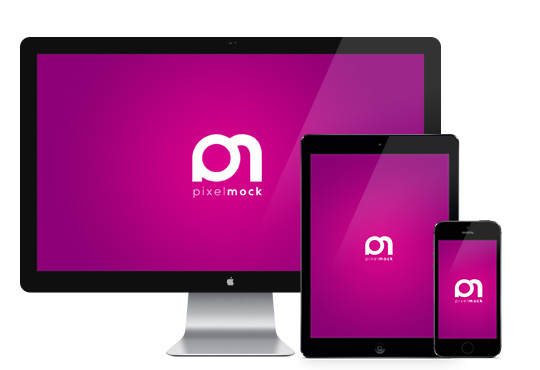
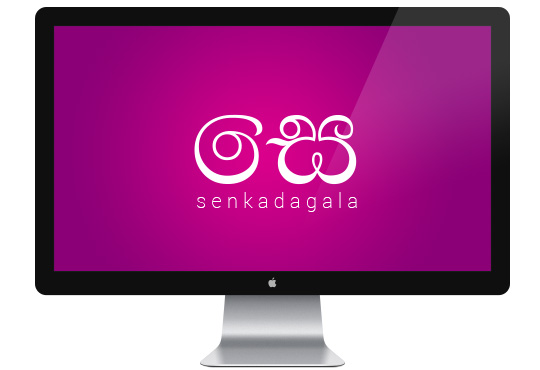
Images modified and text changes to the template

diff --git a/index.html b/index.html
@@ -53,11 +53,11 @@
 					<div class="col-xs-6 col-sm-4 col-md-2 col-lg-2 col-xs-offset-3 col-sm-offset-4 col-md-offset-5 main-logo"></div>
 				</div>
 				<div class="row">
-					<h2>We're <span class="text-color11">Pixel</span><span class="text-color21">Mock</span></h2>
+					<h2>Senkadagala</h2>
 				</div>
 				<div class="row">
 					<p>
-						Senkadagala - A simple one page HTML layout.
+						A simple one page HTML layout.
 					</p>
 				</div>
 			</div>
@@ -70,9 +70,9 @@
 						<img class="img-responsive" title="PixelMock Introduction" src="img/big-mac.jpg">
 					</div>
 					<div class="col-md-6 intro-text">
-						<h3 id="aboutus-title">Who are we?</h3>
+						<h3 id="aboutus-title">What is Senkadagala?</h3>
 						<p>
-							Senkadagala is a small, responsive, Twitter Bootstrap based HTML5 web layout. It uses one page architecture and displays all the information on the same page.
+							Senkadagala is a small, responsive, Twitter Bootstrap based HTML5 web layout. It uses one page architecture and displays all the information on the same page. Name for this theme is inspired by the city in central Sri Lanka - Kandy.
 						</p>
 
 						<p>
@@ -82,27 +82,27 @@
 				</div>
 				<div class="row team">
 					<div class="col-md-4">
-						<img src="img/team/ranushka.jpg" class="img-responsive">
-						<h3 class="team-name">Ranushka</h3>
-						<h4 class="team-subtitle">Designer - The UI guy</h4>
+						<img src="img/team/user1.png" class="img-responsive">
+						<h3 class="team-name">Member One</h3>
+						<h4 class="team-subtitle">Awesome Designation</h4>
 						<p class="team-details">
-							Other than sitting infront of a computer, Ranushka has no other life. Seriousely. Always a perfectionist when it comes to the designing. He wants everything to be pixel perfect and sometimes, it's hard to convince him that design we've been working for ages is good and we might have to start from the begining (!Sigh!). 
+							Lorem ipsum dolor sit amet, consectetur adipiscing elit. Nullam aliquet dolor nec diam pharetra, eu sodales massa euismod. Maecenas ut tellus sit amet lectus molestie dapibus. Quisque fermentum rutrum felis, nec hendrerit diam mollis vitae. Integer sodales varius odio, vel pharetra ante rhoncus vel. Phasellus quis urna rutrum, molestie purus. 
 						</p>
 					</div>
 					<div class="col-md-4">
-						<img src="img/team/dakshina.jpg" class="img-responsive">
-						<h3 class="team-name">Dakshina</h3>
-						<h4 class="team-subtitle">Developer - The code guy</h4>
+						<img src="img/team/user2.png" class="img-responsive">
+						<h3 class="team-name">Member Two</h3>
+						<h4 class="team-subtitle">Awesome Designation</h4>
 						<p class="team-details">
-							With the 5+ years of hands on experience in web development and design, Dakshina always eager to do something out of the box and deliver something new. Apart from his love for computers and the Internet, he's a rail fan (yes, you heard it right!), avid reader, music lover and a day dreamer. Try-hard-wanna-be photographer whith a huge ambition.
+							Lorem ipsum dolor sit amet, consectetur adipiscing elit. Nullam aliquet dolor nec diam pharetra, eu sodales massa euismod. Maecenas ut tellus sit amet lectus molestie dapibus. Quisque fermentum rutrum felis, nec hendrerit diam mollis vitae. Integer sodales varius odio, vel pharetra ante rhoncus vel. Phasellus quis urna rutrum, molestie purus. 
 						</p>
 					</div>
 					<div class="col-md-4">
-						<img src="img/team/dinukshi.jpg" class="img-responsive">
-						<h3 class="team-name">Dinukshi</h3>
-						<h4 class="team-subtitle">Administrator - Who runs everything</h4>
+						<img src="img/team/user3.png" class="img-responsive">
+						<h3 class="team-name">Member Three</h3>
+						<h4 class="team-subtitle">Awesome Designation</h4>
 						<p class="team-details">
-							She runs everything. Apart from being a developer for the team, Dinukshi handles all the client inquiries and all the operational stuff and financial stuff (Which we don't understand anything). She loves dogs so much and wants to adopt a Labrador as the teams' mascot. She is also an avid reader and music listner and loves to taking power naps ;)
+							Lorem ipsum dolor sit amet, consectetur adipiscing elit. Nullam aliquet dolor nec diam pharetra, eu sodales massa euismod. Maecenas ut tellus sit amet lectus molestie dapibus. Quisque fermentum rutrum felis, nec hendrerit diam mollis vitae. Integer sodales varius odio, vel pharetra ante rhoncus vel. Phasellus quis urna rutrum, molestie purus. 
 						</p>
 					</div>
 				</div>
